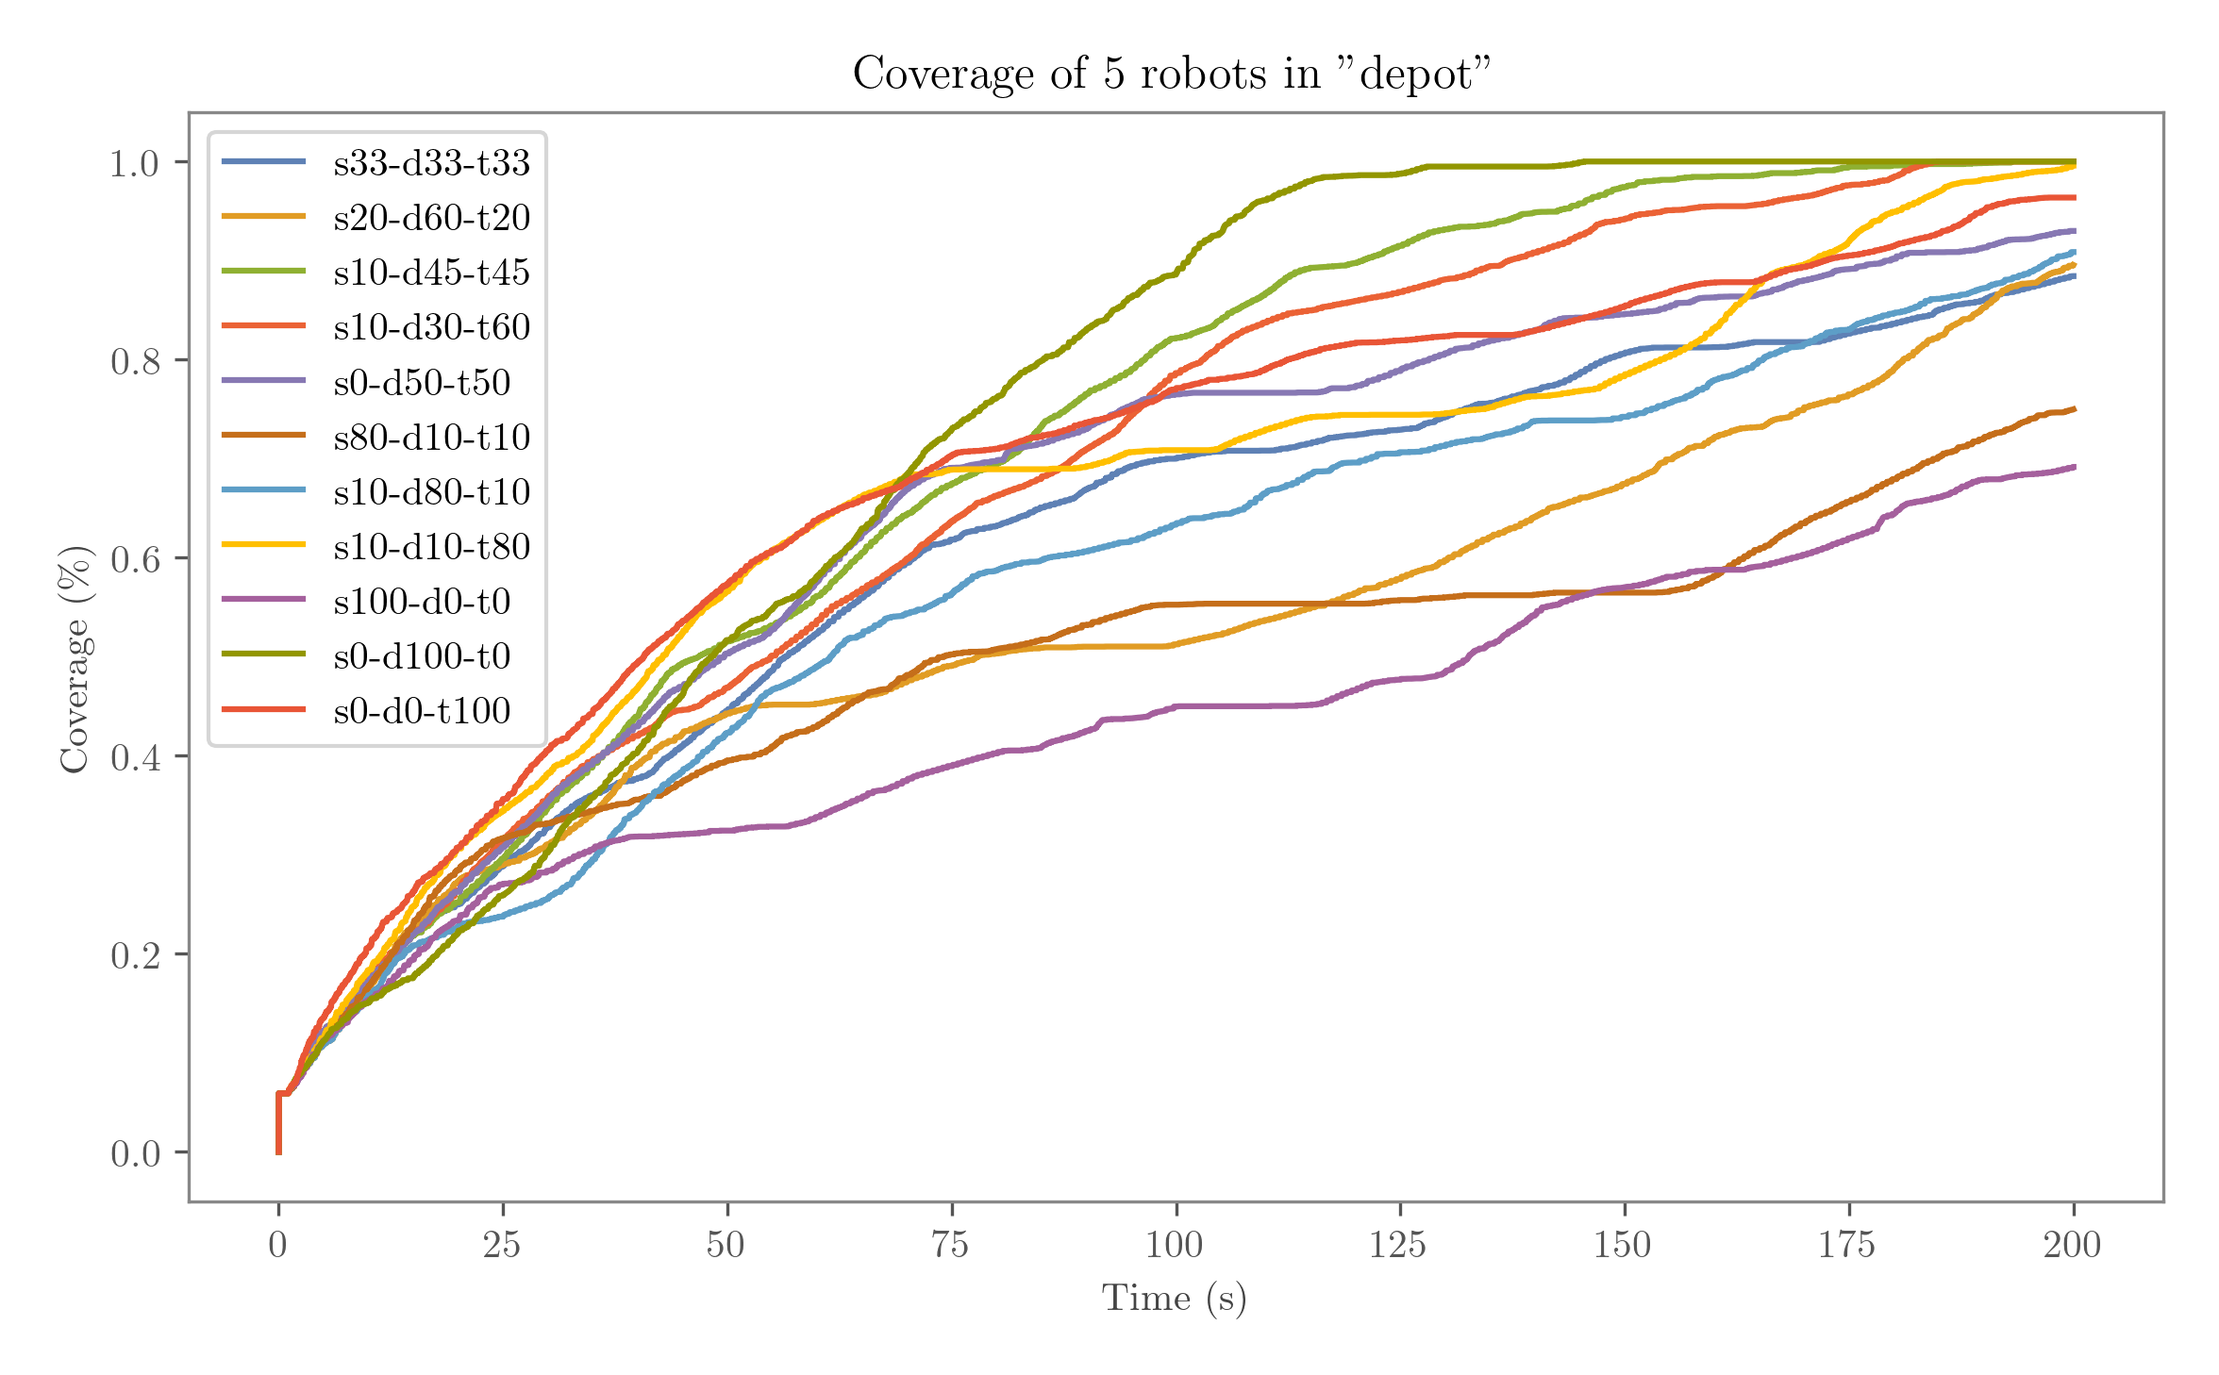
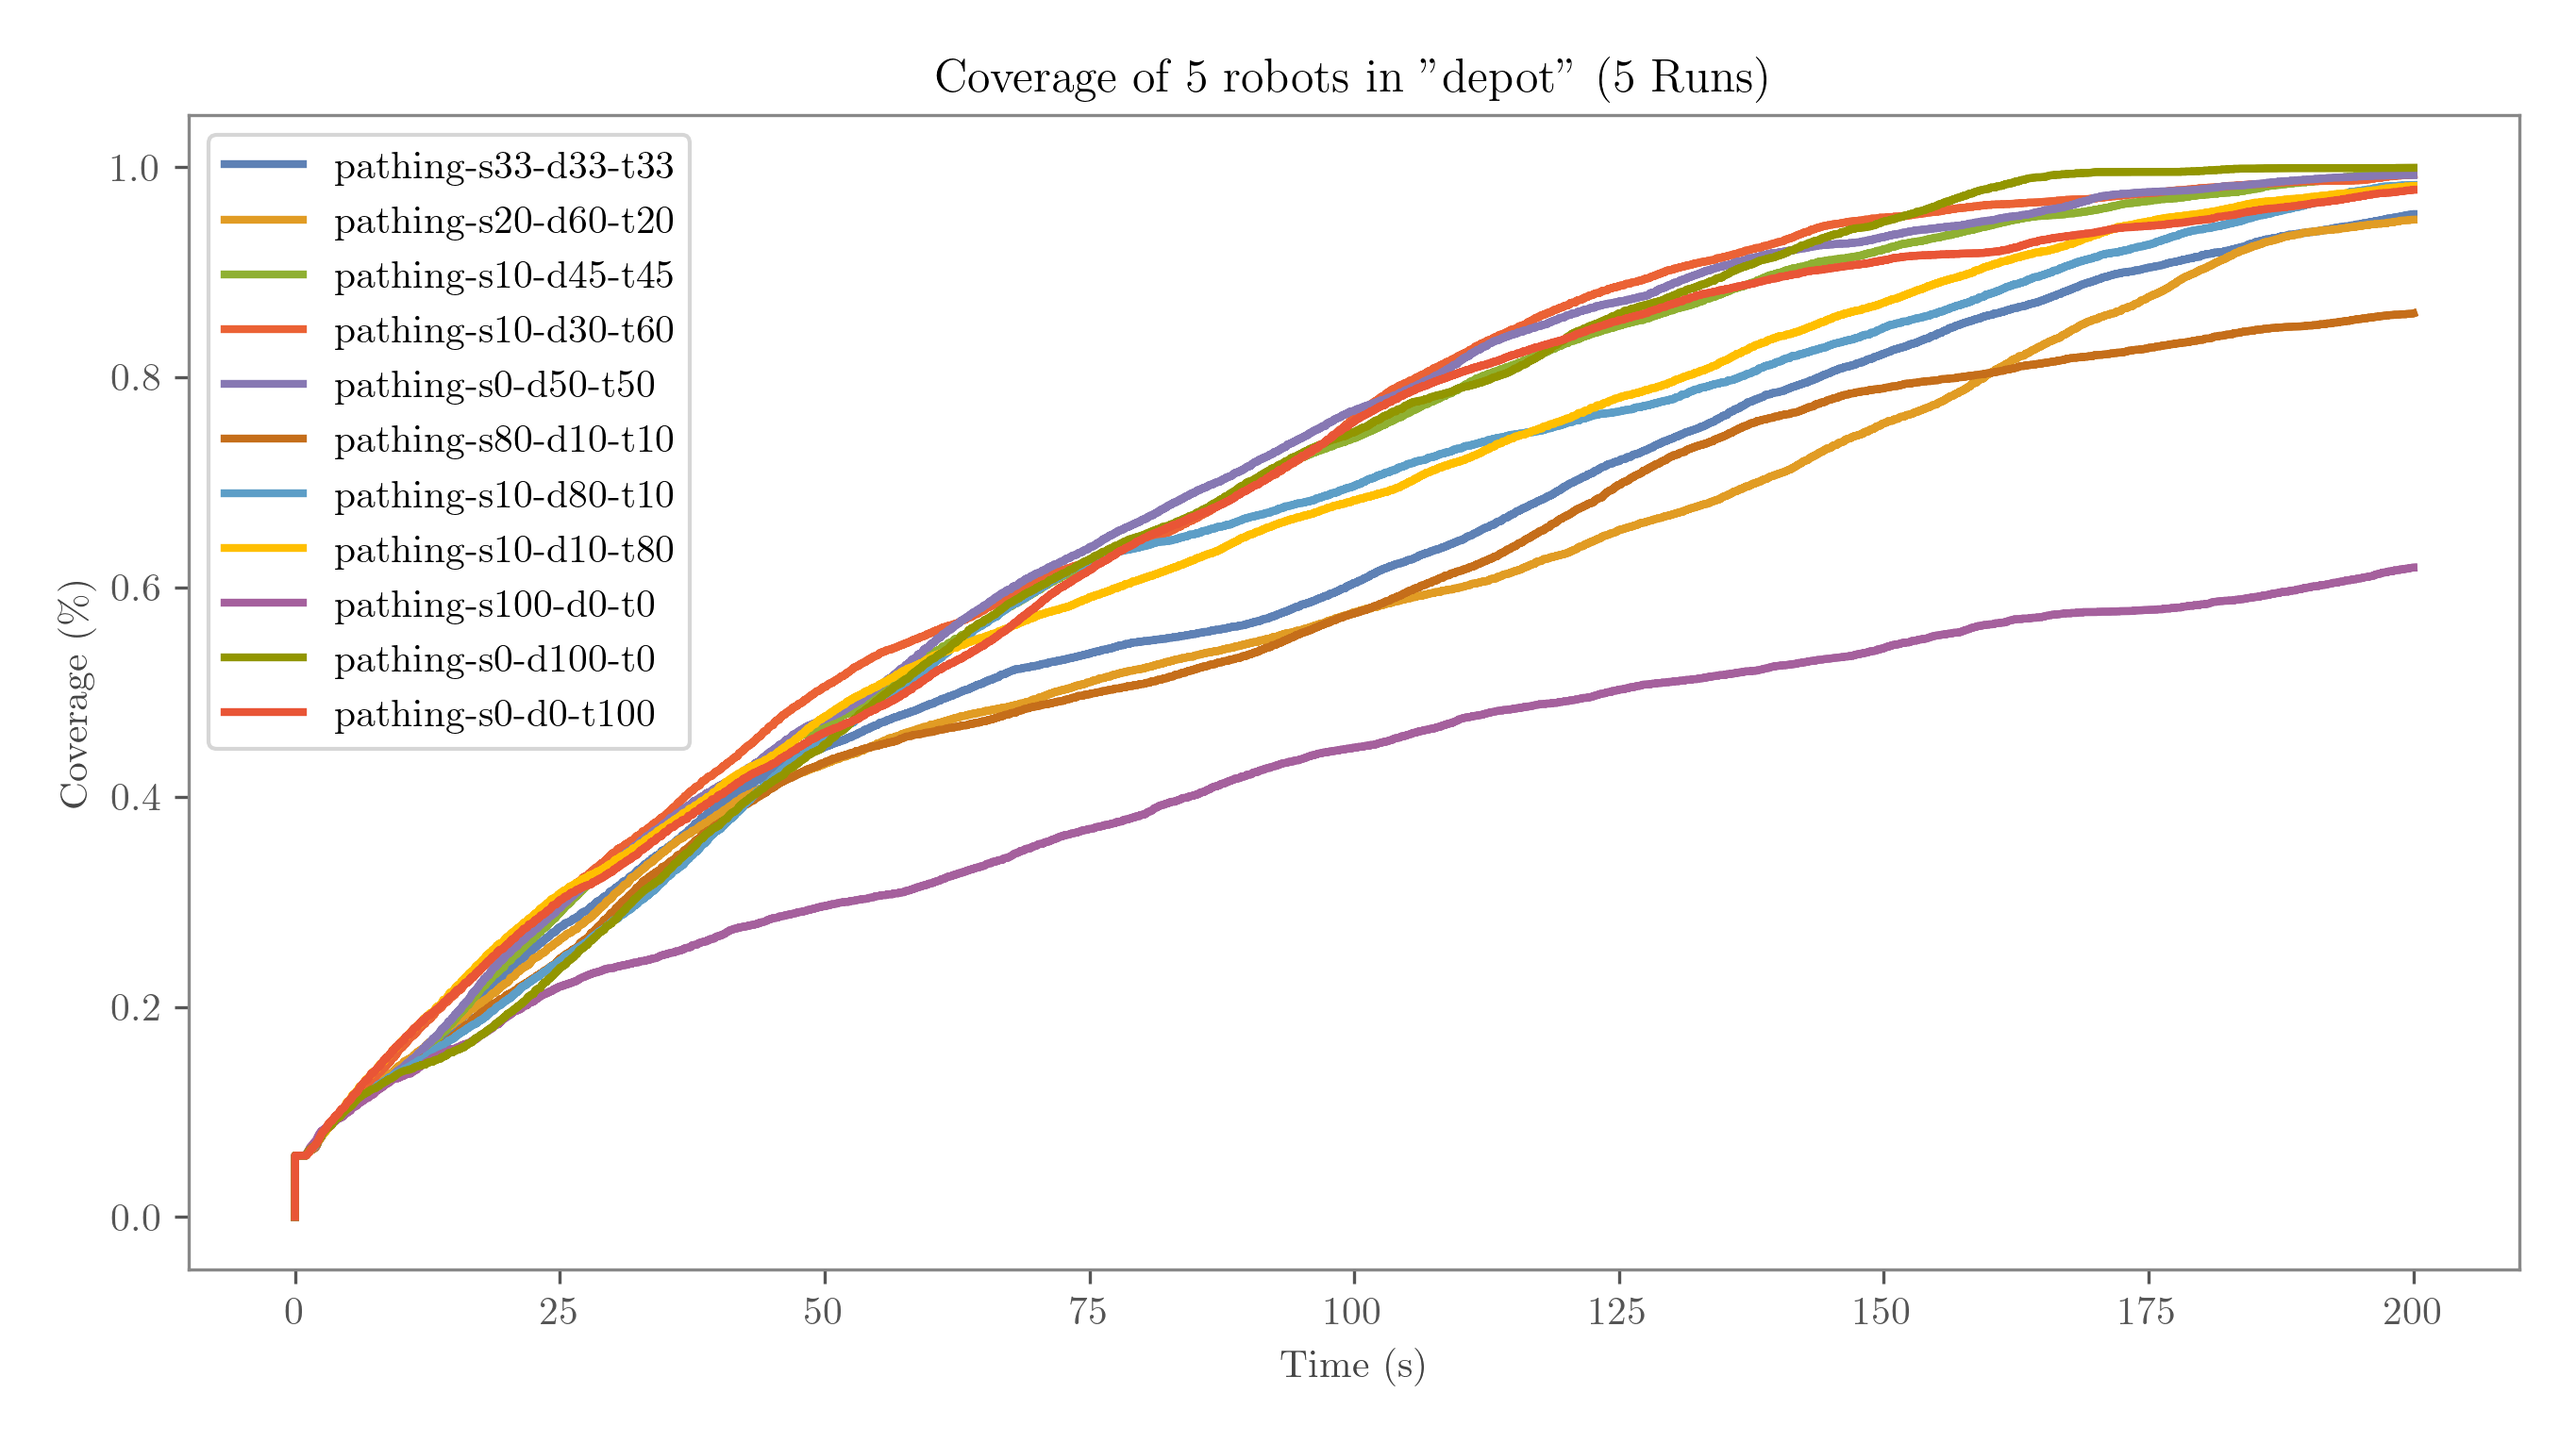
report: Frontier exploration params with avg

diff --git a/report/sections/search-algorithms.tex b/report/sections/search-algorithms.tex
@@ -197,14 +197,14 @@ Frontiers must also meet a minimum obstacle clearance threshold to be considered
     \centering
     \begin{subfigure}[b]{0.45\textwidth}
         \centering
-        \includegraphics[width=\textwidth]{figures/frontier_eval_params_depot.png}
-        \caption{Complex map}
+        \includegraphics[width=\textwidth]{figures/frontier_eval_params_medium_obstacles.png}
+        \caption{Simple map}
     \end{subfigure}
     \hfill
     \begin{subfigure}[b]{0.45\textwidth}
         \centering
-        \includegraphics[width=\textwidth]{figures/frontier_eval_params_medium_obstacles.png}
-        \caption{Simple map}
+        \includegraphics[width=\textwidth]{figures/frontier_eval_params_warehouse.png}
+        \caption{Complex map}
     \end{subfigure}
     \caption{Frontier evaluation parameters on two maps.}
     \label{fig:frontier-eval-params}
@@ -212,7 +212,7 @@ Frontiers must also meet a minimum obstacle clearance threshold to be considered
 
 These evaluations were conducted in two distinct environments. Line labels in \cref{fig:frontier-eval-params} indicate the parameter weightings used: \texttt{sXX} for frontier size, \texttt{dXX} for distance to the frontier, and \texttt{tXX} for the required turn angle. All tested configurations successfully achieved full map coverage; therefore, performance is evaluated based on coverage speed. \\
 
-As shown in \cref{fig:frontier-eval-params}, configurations that prioritized distance and turn angle produced the fastest coverage. This outcome suggests that minimizing rotation allows for higher sustained forward velocity. In contrast, configurations that emphasized frontier size alone often resulted in inefficient behavior, such as long detours and frequent turning, which slowed down overall progress.
+As shown in \cref{fig:frontier-eval-params}, configurations that prioritized distance and turn angle produced the fastest coverage. This outcome suggests that minimizing rotation allows for higher sustained forward velocity. In contrast, configurations that emphasized frontier size alone often resulted in inefficient behavior, such as long detours and frequent turning, which slowed down overall progress. The final parameter configuration, \texttt{s10-d45-t45}, produced the overall best  and most consistent performance across maps with various complexity.
 
 \subsubsection{Path Planning}
 \label{sec:path_planning}

diff --git a/botplot/src/botplot/__init__.py b/botplot/src/botplot/__init__.py
@@ -792,6 +792,7 @@ def plot_coverage(
     results: Result | list[Result] | ResultCollection | list[ResultCollection],
     name: str,
     title=None,
+    spread=True,
 ) -> str:
     fig, ax = plt.subplots(figsize=(9, 5))
 
@@ -803,7 +804,7 @@ def plot_coverage(
     if isinstance(results, list) and all(
         isinstance(item, ResultCollection) for item in results
     ):
-        lines = [(c, c.plot("coverage", ax, label=False)) for c in results]
+        lines = [(c, c.plot("coverage", ax, label=False,spread=spread)) for c in results]
         for c, line in lines:
             c.plot("coverage", ax, color=line.get_color(), spread=False)
 

diff --git a/plotting/report/frontier_eval_params.py b/plotting/report/frontier_eval_params.py
@@ -53,7 +53,8 @@ def main():
         bp.plot_coverage(
             result_collection,
             f"frontier_eval_params_{world_name}",
-            f'Coverage of {ROBOTS} robots in "{world_name}"',
+            f'Coverage of {ROBOTS} robots in "{world_name}" ({RUNS} Runs)',
+            spread=False,
         )
 
 
